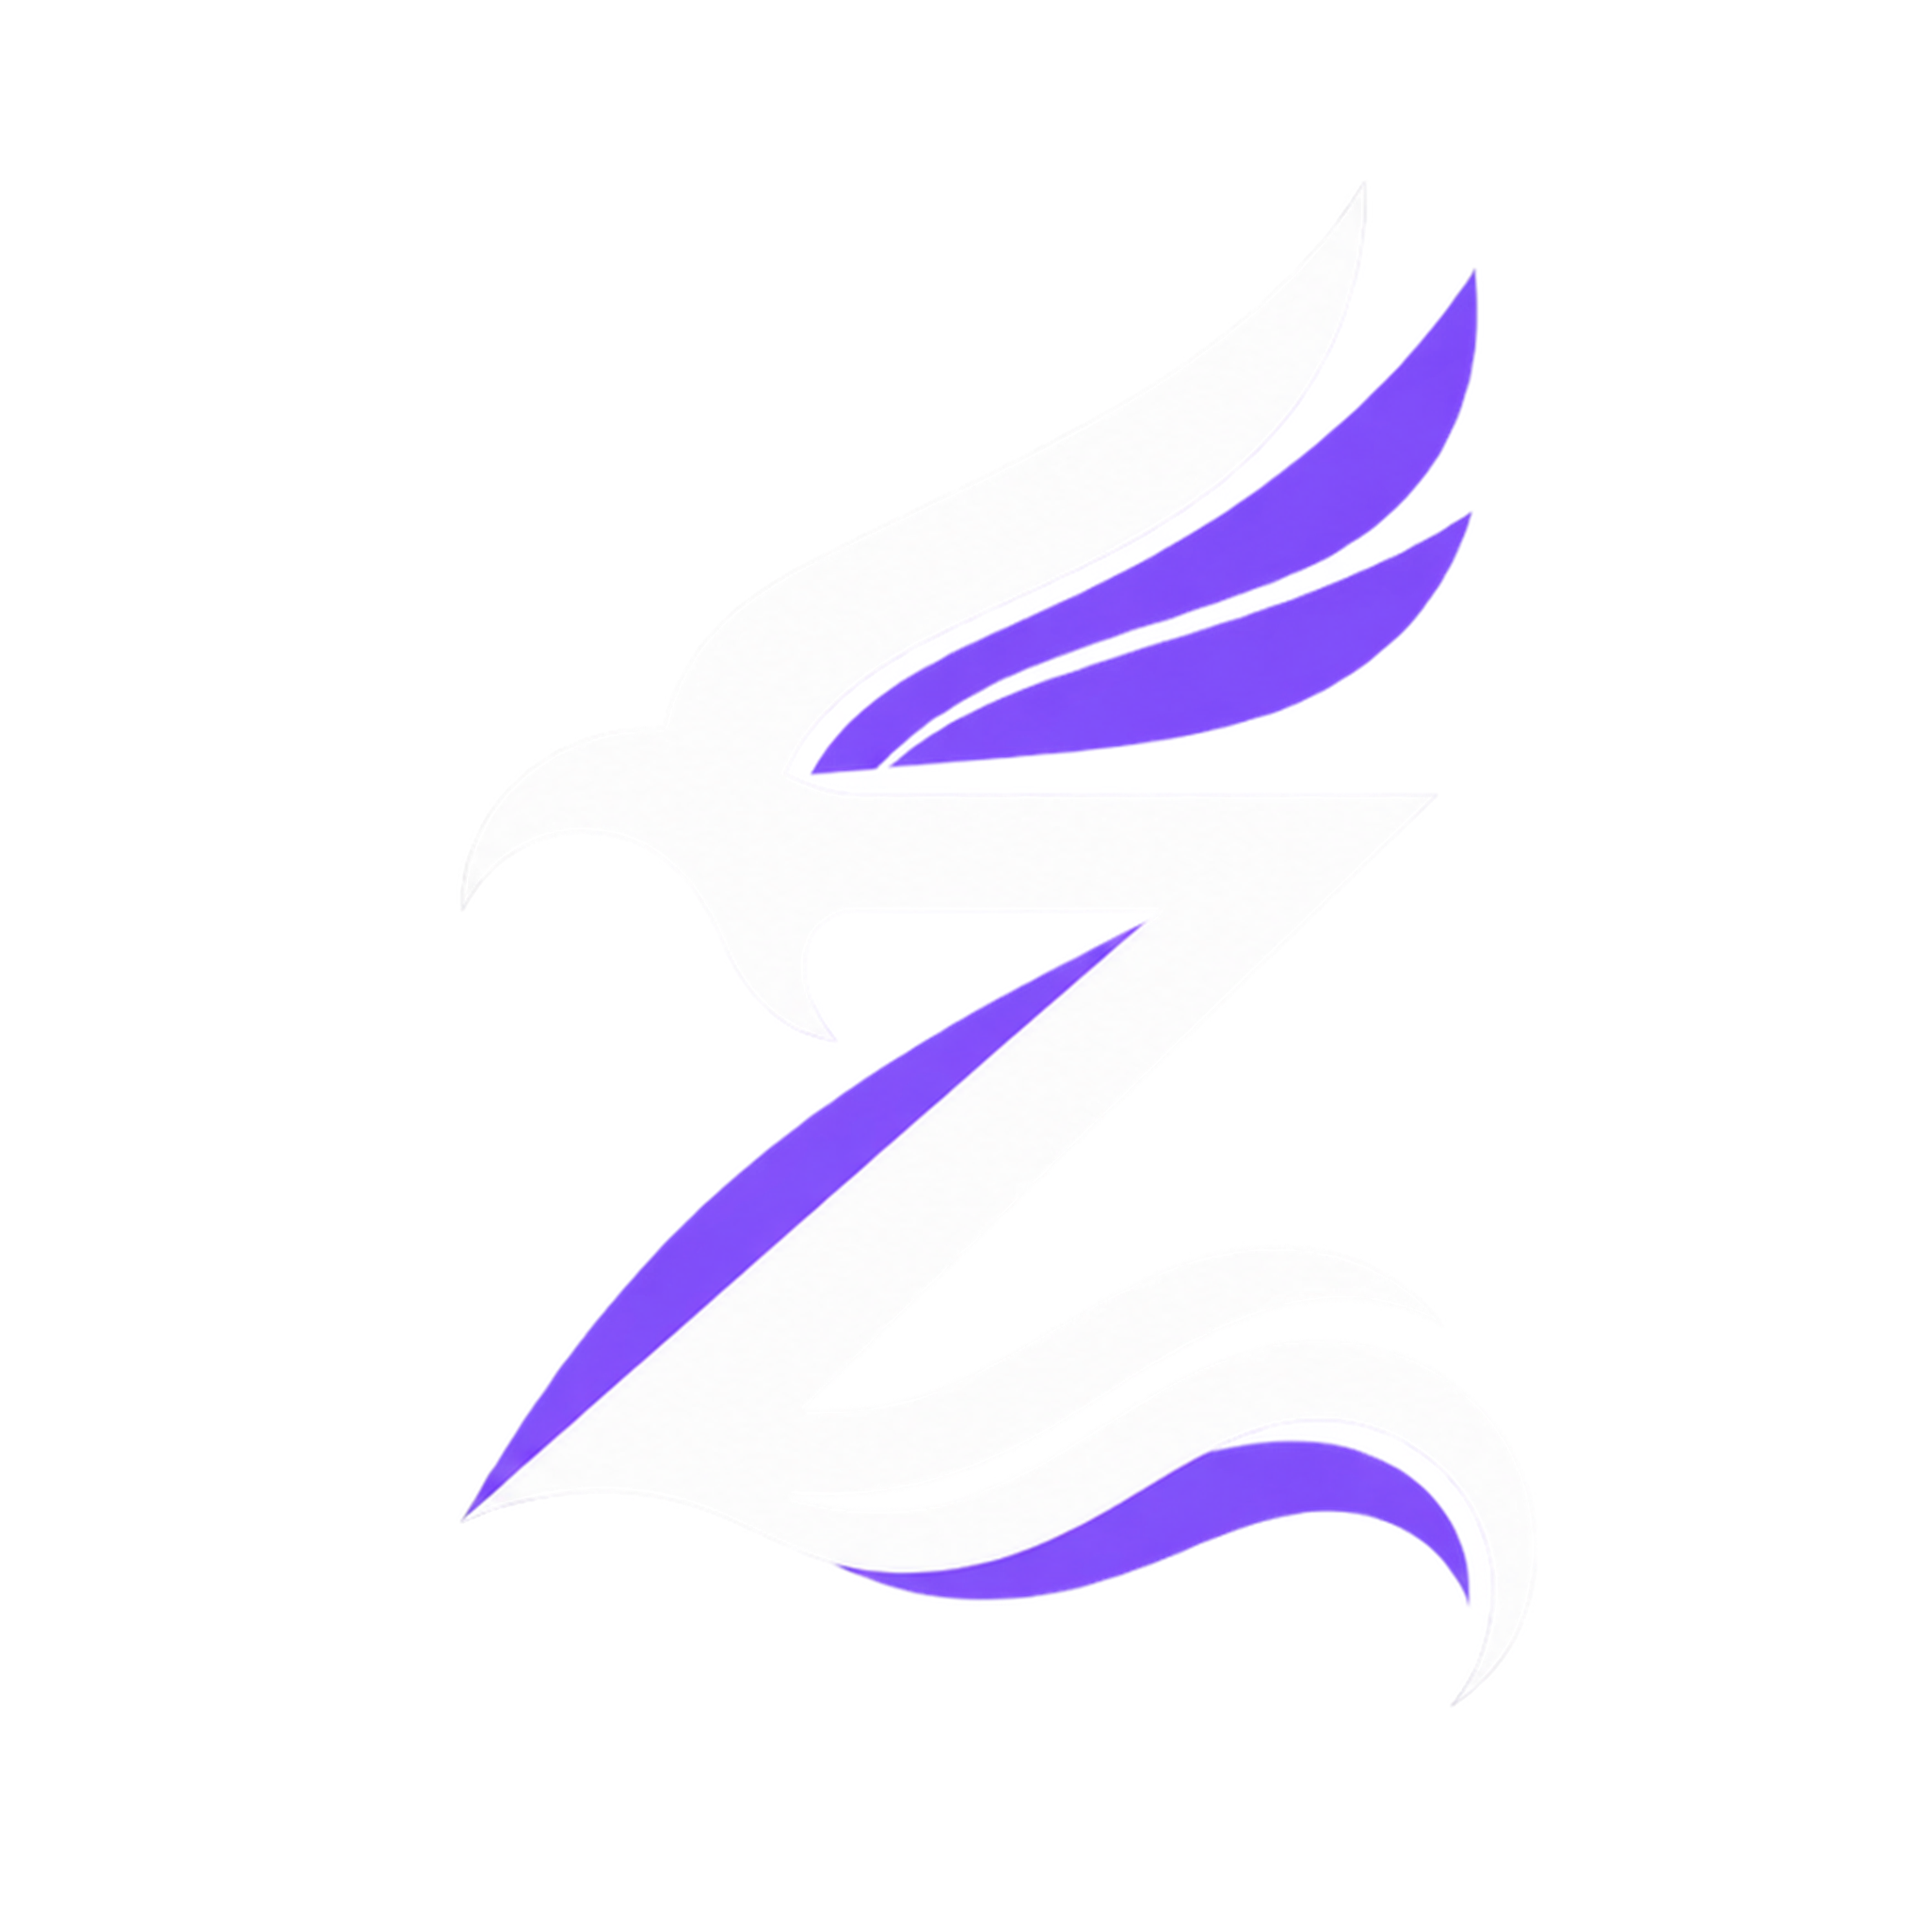
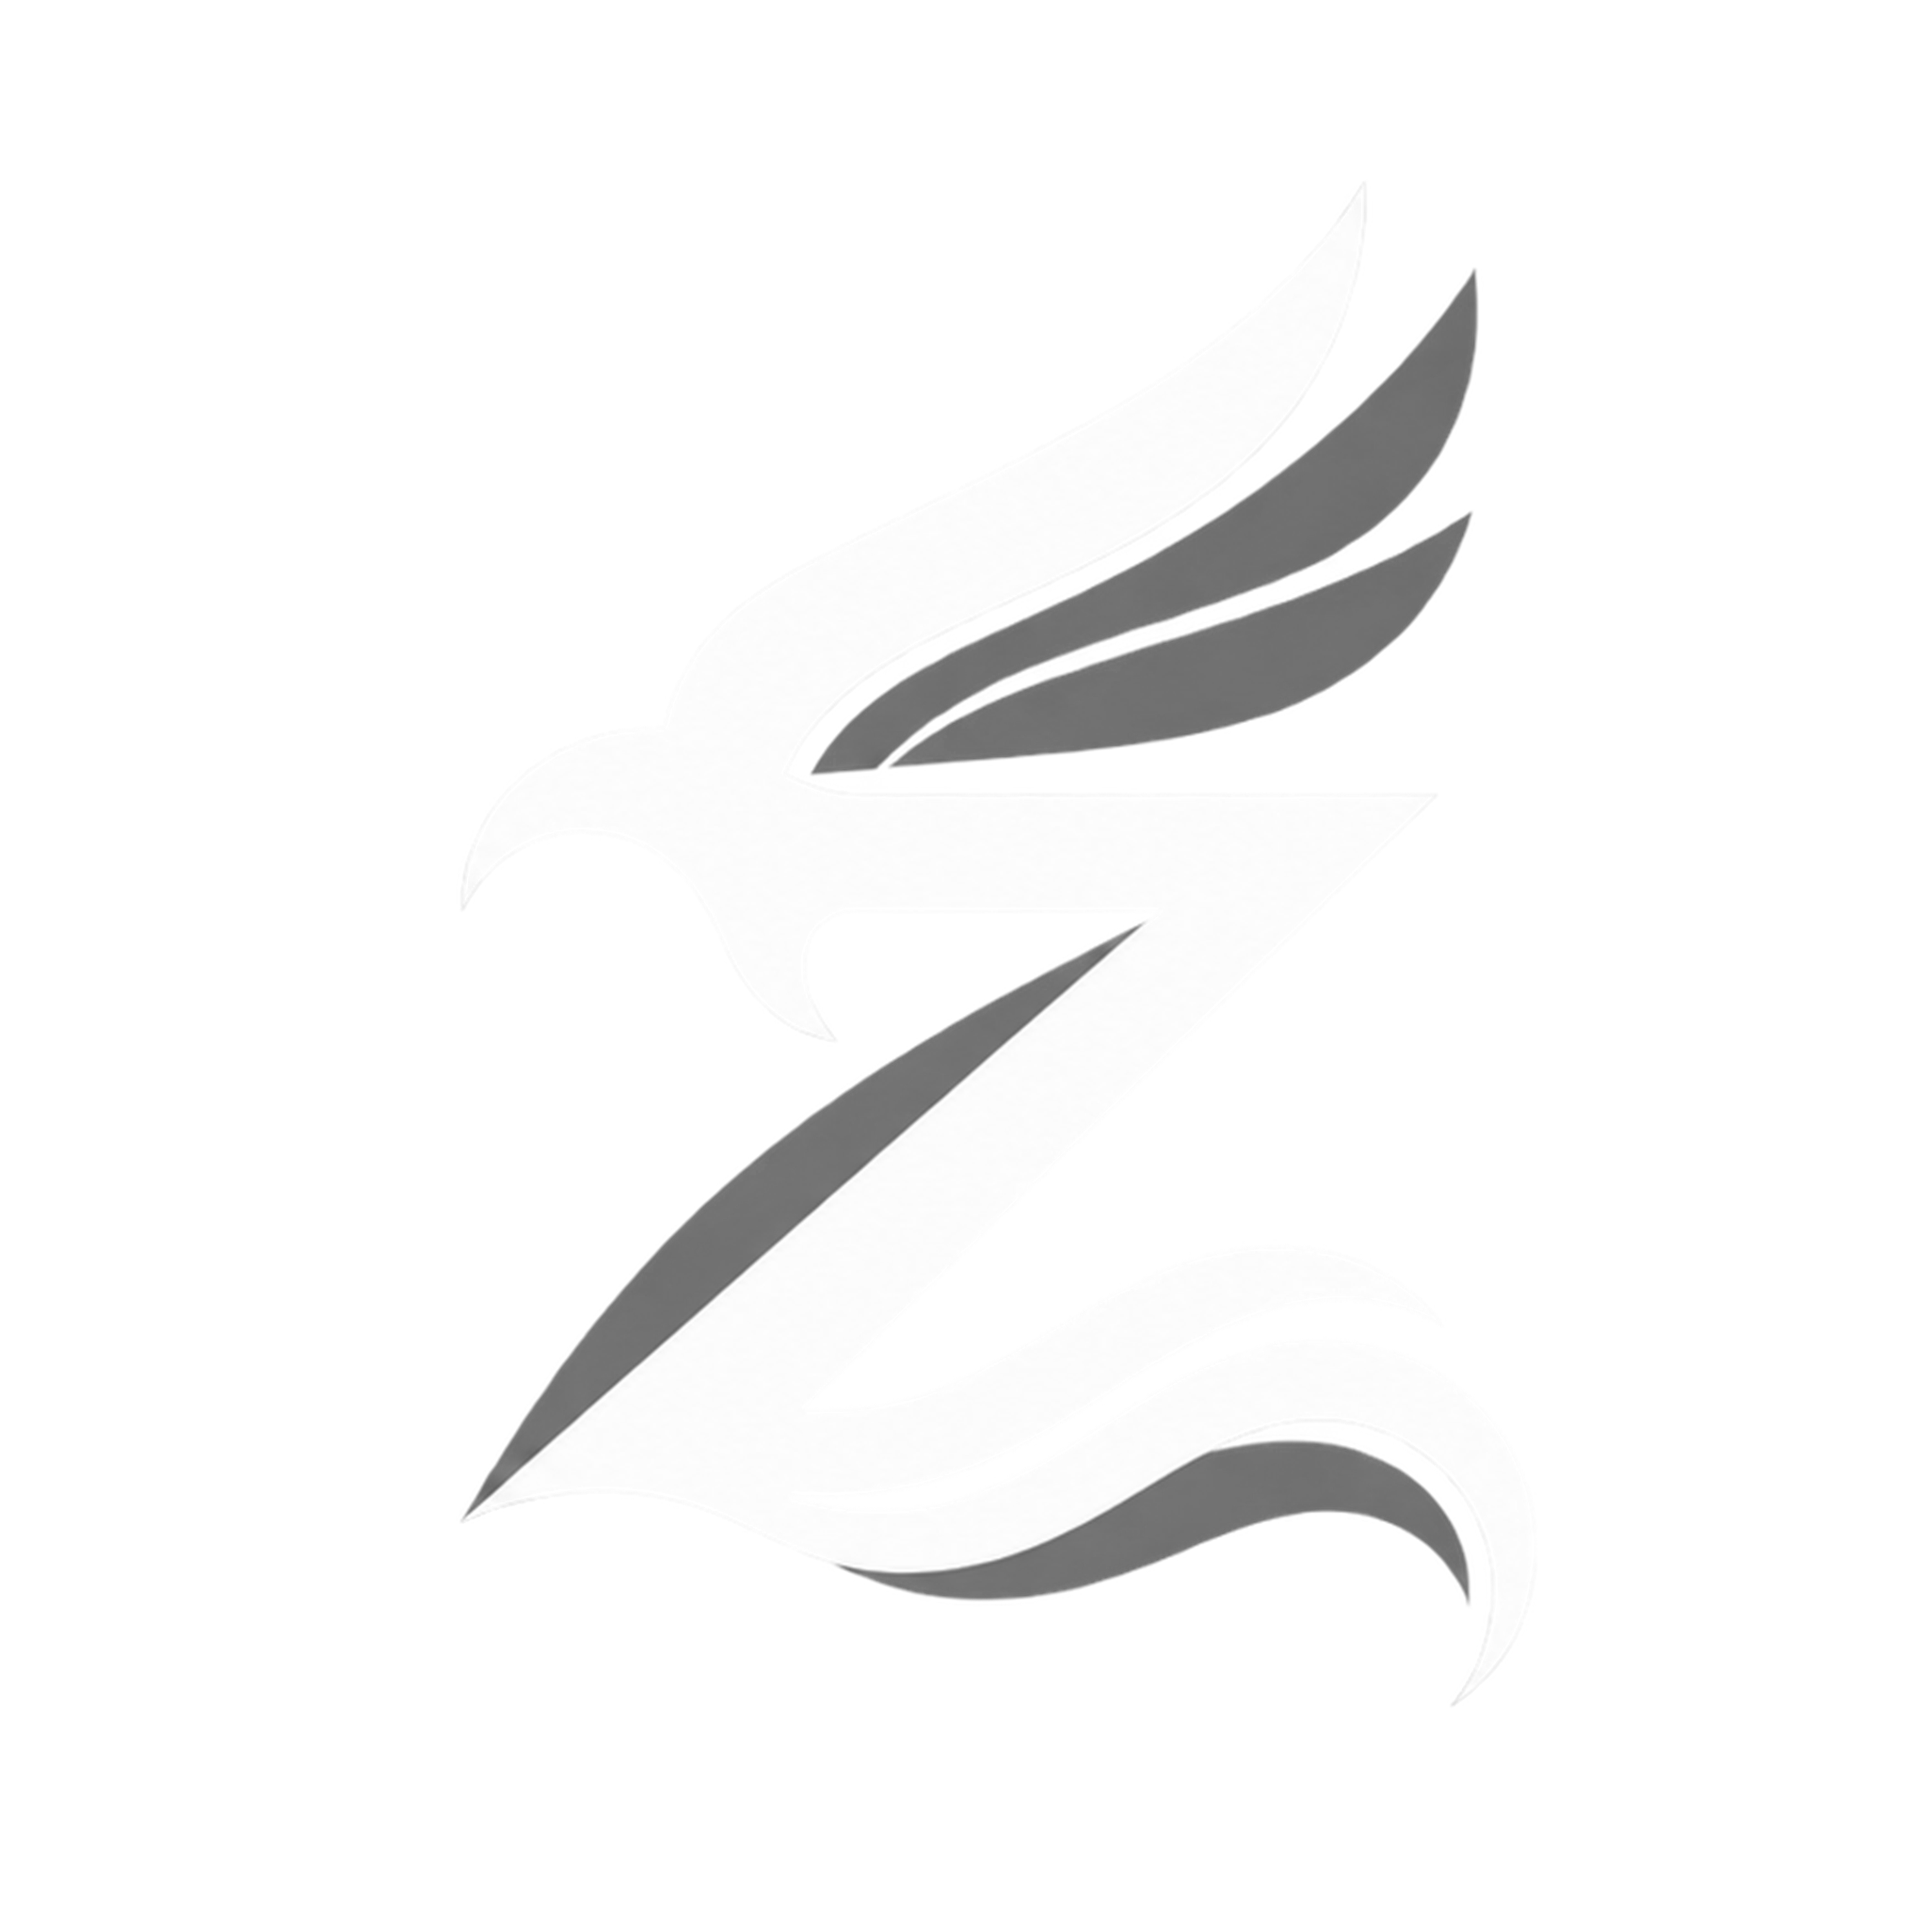
Make site black and white, remove purple

diff --git a/src/components/Hero.tsx b/src/components/Hero.tsx
@@ -4,7 +4,7 @@ export default function Hero() {
   return (
     <section className="relative grid min-h-dvh place-items-center overflow-hidden px-6 py-28">
       <div className="absolute left-1/2 top-1/2 h-[min(78vw,42rem)] w-[min(78vw,42rem)] -translate-x-1/2 -translate-y-1/2 rounded-full border border-white/[.06]" aria-hidden="true" />
-      <div className="absolute left-1/2 top-1/2 h-[min(58vw,31rem)] w-[min(58vw,31rem)] -translate-x-1/2 -translate-y-1/2 rounded-full bg-[var(--violet)]/[.07] blur-3xl" aria-hidden="true" />
+      <div className="absolute left-1/2 top-1/2 h-[min(58vw,31rem)] w-[min(58vw,31rem)] -translate-x-1/2 -translate-y-1/2 rounded-full bg-white/[.06] blur-3xl" aria-hidden="true" />
       <span className="absolute left-1/2 top-0 h-full w-px bg-gradient-to-b from-transparent via-white/[.055] to-transparent" aria-hidden="true" />
       <span className="absolute left-0 top-1/2 h-px w-full bg-gradient-to-r from-transparent via-white/[.055] to-transparent" aria-hidden="true" />
 
@@ -15,7 +15,7 @@ export default function Hero() {
           width={460}
           height={460}
           priority
-          className="arrive h-auto w-[min(66vw,25rem)] drop-shadow-[0_30px_70px_rgba(121,87,232,.18)]"
+          className="arrive h-auto w-[min(66vw,25rem)] drop-shadow-[0_30px_70px_rgba(255,255,255,.12)]"
         />
         <div className="arrive arrive-late mt-8">
           <h1 className="text-[clamp(1.8rem,4vw,3.15rem)] font-medium tracking-[-.035em] text-[var(--ivory)]">

diff --git a/src/app/globals.css b/src/app/globals.css
@@ -1,12 +1,12 @@
 @import "tailwindcss";
 
 :root {
-  --midnight: #080912;
-  --ivory: #f2eee5;
-  --silver: #9998a6;
-  --violet: #7957e8;
-  --lilac: #b9a6ff;
-  --amber: #d9a85f;
+  --midnight: #000000;
+  --ivory: #ffffff;
+  --silver: #a3a3a3;
+  --violet: #ffffff;
+  --lilac: #d4d4d4;
+  --amber: #ffffff;
 }
 
 * { box-sizing: border-box; }
@@ -23,7 +23,7 @@ body {
   overflow-x: hidden;
 }
 
-::selection { background: var(--violet); color: white; }
+::selection { background: var(--violet); color: black; }
 
 a:focus-visible {
   outline: 2px solid var(--lilac);
